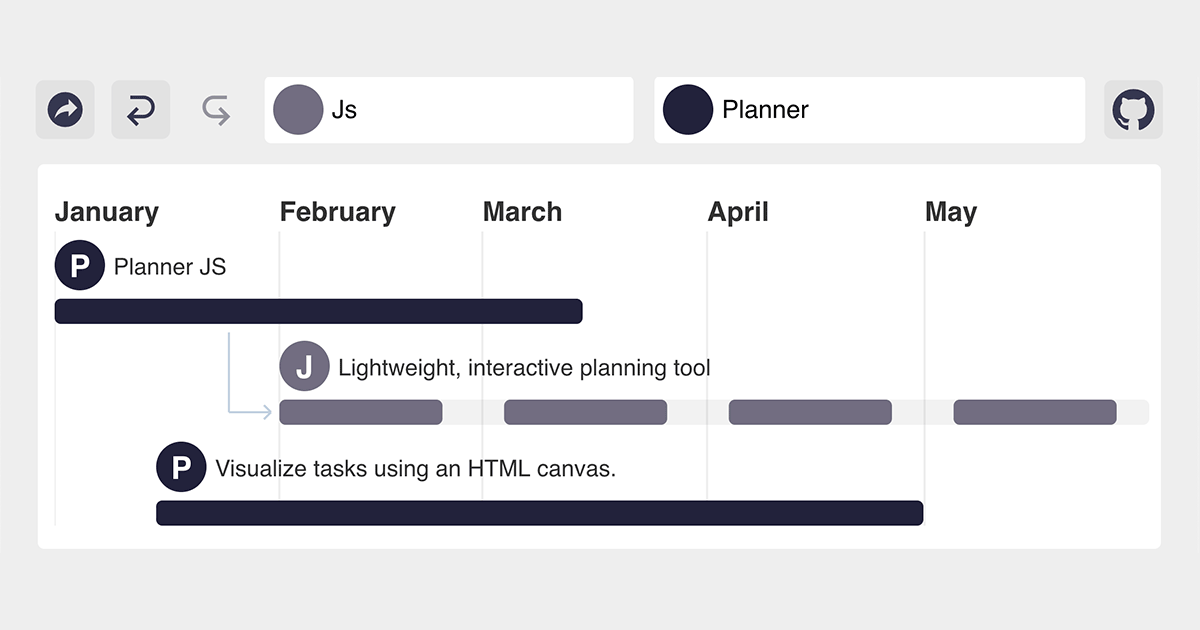
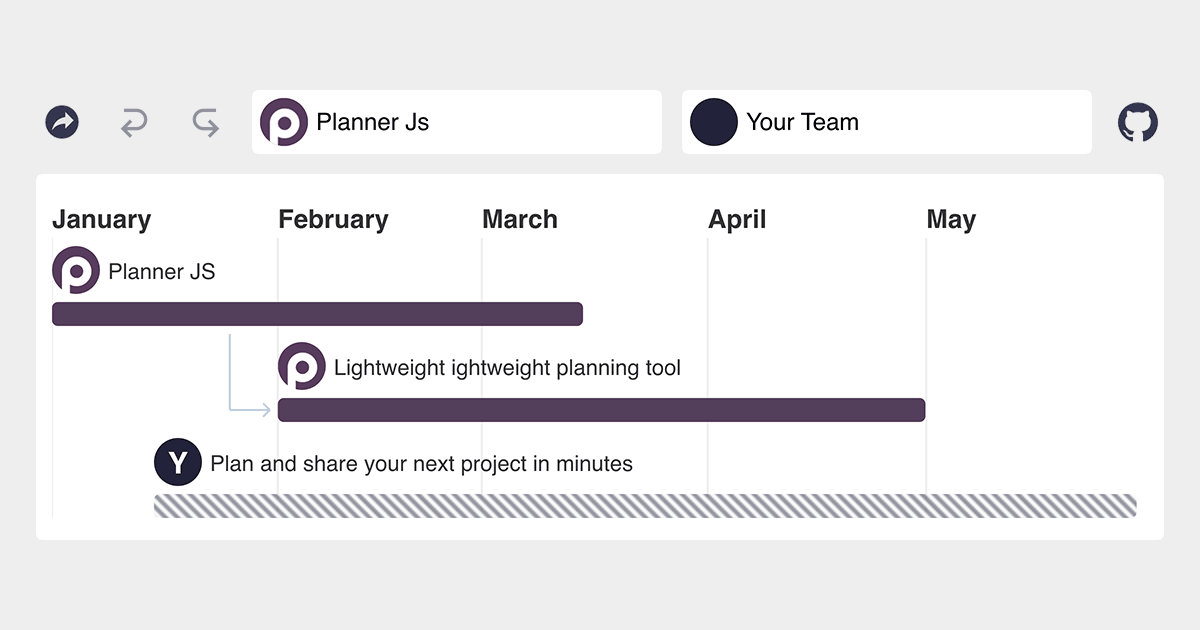
Add "color" option to team config

diff --git a/src/Legend.js b/src/Legend.js
@@ -1,46 +1,53 @@
 import { useMemo } from "react";
-import { getOwnerName } from "./utils/task";
 import { getColorForString } from "./utils/color";
 import styles from "./Legend.module.css";
 
 export default function Legend({ team, tasks }) {
-  const [namesArray, nameToAvatarMap] = useMemo(() => {
+  const entries = useMemo(() => {
     const map = new Map();
-    const set = new Set();
 
     for (let key in team) {
       const owner = team[key];
-      const name = owner.name?.toLowerCase();
+      const ownerName = owner.name || key;
 
-      if (name) {
-        set.add(name);
-        if (owner.avatar) {
-          map.set(name, owner.avatar);
-        }
-      }
+      map.set(key.toLowerCase(), {
+        name: ownerName,
+        color: owner.color || getColorForString(ownerName),
+        avatar: owner.avatar || null,
+      });
     }
 
     for (let taskIndex = 0; taskIndex < tasks.length; taskIndex++) {
       const task = tasks[taskIndex];
-      const owner = team[task.owner];
-      if (owner == null) {
-        const ownerName = getOwnerName(task, team);
-        set.add(ownerName);
+      const ownerKey = task.owner || "Team";
+      if (!map.has(ownerKey)) {
+        map.set(ownerKey, {
+          name: ownerKey.toLowerCase(),
+          color: getColorForString(ownerKey),
+          avatar: null,
+        });
       }
     }
 
-    return [Array.from(set), map];
+    return Array.from(map.values()).sort((a, b) => {
+      if (a.name < b.name) {
+        return -1;
+      } else if (a.name > b.name) {
+        return 1;
+      } else {
+        return 0;
+      }
+    });
   }, [team, tasks]);
 
   return (
     <ul className={styles.List} data-testname="Legend-list">
-      {namesArray.sort().map((name) => {
-        const avatar = nameToAvatarMap.get(name);
+      {entries.map(({ avatar, color, name }) => {
         return (
           <li key={name} className={styles.ListItem}>
             <span
               className={styles.ColorChip}
-              style={{ backgroundColor: getColorForString(name) }}
+              style={{ backgroundColor: color }}
             >
               {avatar && (
                 <img className={styles.AvatarImage} src={avatar} alt="Avatar" />

diff --git a/src/data.js b/src/data.js
@@ -1,83 +1,35 @@
+export const tasks = [
+  {
+    id: 1,
+    start: "2022-01-01",
+    stop: "2022-03-15",
+    name: "Planner JS",
+    owner: "planner",
+  },
+  {
+    start: "2022-01-15",
+    stop: "2022-05-30",
+    name: "Plan and share your next project in minutes",
+    isOngoing: true,
+    owner: "team",
+  },
+  {
+    start: "2022-02-01",
+    stop: "2022-05-01",
+    name: "Lightweight ightweight planning tool",
+    dependency: 1,
+    owner: "planner",
+  },
+];
+
 export const team = {
-  bvaughn: {
-    avatar: "https://avatars.githubusercontent.com/u/29597",
-    name: "Brian",
+  planner: {
+    name: "Planner JS",
+    color: "#543e5b",
+    avatar: "/avatar.png",
   },
   team: {
-    avatar: null,
-    name: "Unclaimed",
+    name: "Your team",
+    color: "#22223B",
   },
 };
-
-export const tasks = [];
-
-let uidCounter = 0;
-
-function createTask({
-  dependency, // Task (id) that blocks this one
-  id = uidCounter++,
-  isOngoing = false,
-  name,
-  owner = "team",
-  start,
-  stop,
-}) {
-  const task = {
-    id,
-    name,
-    owner,
-    start,
-    stop,
-  };
-
-  // These fields are added conditionally so they don't show up in the editable text input.
-
-  if (isOngoing) {
-    task.isOngoing = true;
-  }
-
-  if (dependency) {
-    task.dependency = dependency;
-  }
-
-  tasks.push(task);
-}
-
-createTask({
-  id: "example",
-  name: "Design API",
-  start: "2022-01-01",
-  stop: "2022-03-15",
-  owner: "bvaughn",
-});
-createTask({
-  name: "Write API documentation",
-  start: "2022-03-01",
-  stop: "2022-05-01",
-  duration: 1,
-  owner: "susan",
-  dependency: "example",
-});
-createTask({
-  name: "Support product team integration",
-  start: "2022-03-15",
-  stop: "2022-05-15",
-  duration: 2,
-  owner: "bvaughn",
-  dependency: "example",
-  isOngoing: true,
-});
-createTask({
-  name: "Finish project carryover",
-  start: "2022-01-01",
-  stop: "2022-03-01",
-  duration: 2,
-  owner: "susan",
-});
-createTask({
-  name: "GitHub issue support",
-  start: "2022-03-01",
-  stop: "2022-04-01",
-  isOngoing: true,
-  owner: "team",
-});

diff --git a/src/__tests__/team.test.js b/src/__tests__/team.test.js
@@ -36,13 +36,13 @@ test.describe("Teams", () => {
 
     // Change team configuration.
     await Promise.all([
-      page.waitForResponse("https://avatars.githubusercontent.com/**"),
+      page.waitForResponse("**/avatar.png"),
       setEditorText(
         page,
         "team",
         JSON.stringify({
           bvaughn: {
-            avatar: "https://avatars.githubusercontent.com/u/29597",
+            avatar: "/avatar.png",
             name: "Brian",
           },
           team: {
@@ -62,17 +62,17 @@ test.describe("Teams", () => {
 
     // Change user avatar.
     await Promise.all([
-      page.waitForResponse("https://avatars.githubusercontent.com/**"),
+      page.waitForResponse("**/meta-image.png"),
       setEditorText(
         page,
         "team",
         JSON.stringify({
           bvaughn: {
-            avatar: "https://avatars.githubusercontent.com/u/29597",
+            avatar: "/avatar.png",
             name: "Brian",
           },
           team: {
-            avatar: "https://avatars.githubusercontent.com/u/6412038?s=200&v=4",
+            avatar: "/meta-image.png",
             name: "Unclaimed",
           },
         })

diff --git a/src/Planner/Canvas.js b/src/Planner/Canvas.js
@@ -291,8 +291,9 @@ function drawTaskRow(
   const taskRect = getTaskRect(task, metadata, chartWidth);
 
   const ownerName = getOwnerName(task, team);
-  const color = getColorForString(ownerName);
   const owner = team[task.owner];
+
+  const color = owner?.color || getColorForString(ownerName);
   const avatar = ownerToImageMap.get(owner);
 
   drawOwnerAvatar(context, taskRect, ownerName, color, avatar);

diff --git a/playwright.config.js b/playwright.config.js
@@ -9,7 +9,14 @@ const config = {
 
   reporter: 'html',
   use: {
+    // Uncomment for easier local debugging
+    // headless: false,
+    // launchOptions: {
+    //   slowMo: 1000,
+    // },
+
     browserName: 'chromium',
+
     viewport: {
       width: 1024,
       height: 800,
